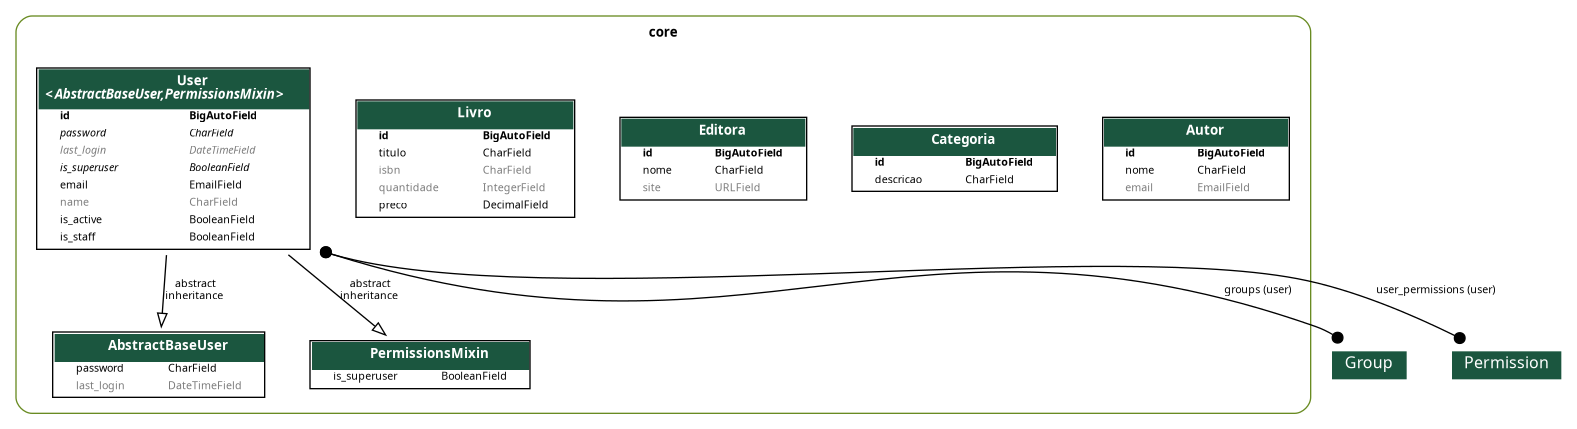
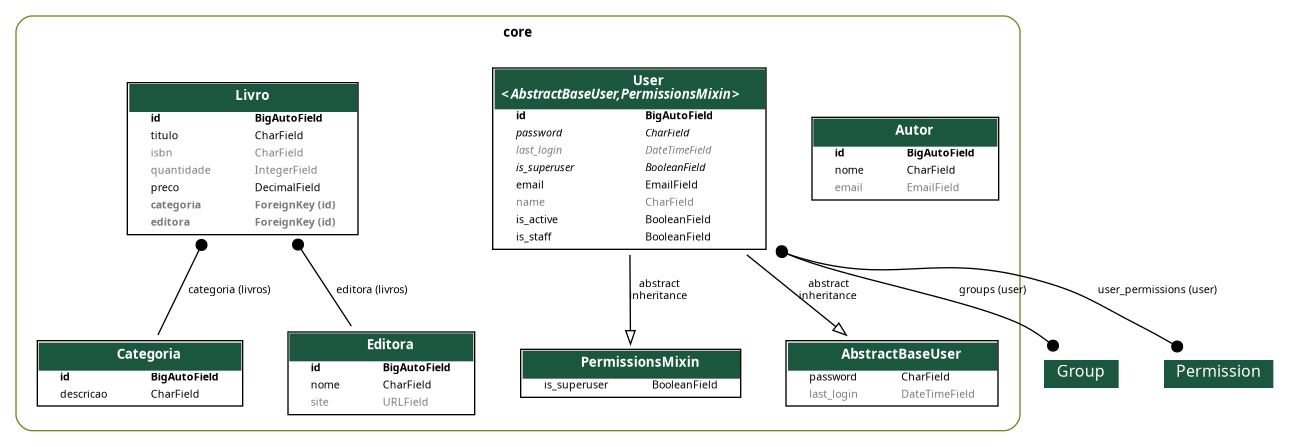
FEAT: Criação das API's

diff --git a/core/models/livro.py b/core/models/livro.py
@@ -1,10 +1,16 @@
 from django.db import models
 
+from .categoria import Categoria
+from .editora import Editora
+
+
 class Livro(models.Model):
     titulo = models.CharField(max_length=255)
     isbn = models.CharField(max_length=32, null=True, blank=True)
     quantidade = models.IntegerField(default=0, blank=True, null=True)
     preco = models.DecimalField(max_digits=7, decimal_places=2, default=0)
+    categoria = models.ForeignKey(Categoria, on_delete=models.PROTECT, related_name='livros', null=True, blank=True)
+    editora = models.ForeignKey(Editora, on_delete=models.PROTECT, related_name='livros', blank=True, null=True)
 
     def __str__(self):
-        return f"({self.id}) {self.titulo} (R${self.preco}) - ({self.quantidade})"
+        return f'({self.id}) {self.titulo} - (R${self.preco}) - ({self.quantidade})'

diff --git a/core/migrations/0007_livro_categoria_livro_editora.py b/core/migrations/0007_livro_categoria_livro_editora.py
@@ -1,0 +1,24 @@
+# Generated by Django 5.2.12 on 2026-03-17 18:38
+
+import django.db.models.deletion
+from django.db import migrations, models
+
+
+class Migration(migrations.Migration):
+
+    dependencies = [
+        ('core', '0006_autor_categoria_editora_livro'),
+    ]
+
+    operations = [
+        migrations.AddField(
+            model_name='livro',
+            name='categoria',
+            field=models.ForeignKey(blank=True, null=True, on_delete=django.db.models.deletion.PROTECT, related_name='livros', to='core.categoria'),
+        ),
+        migrations.AddField(
+            model_name='livro',
+            name='editora',
+            field=models.ForeignKey(blank=True, null=True, on_delete=django.db.models.deletion.PROTECT, related_name='livros', to='core.editora'),
+        ),
+    ]

diff --git a/app/urls.py b/app/urls.py
@@ -12,10 +12,14 @@ from rest_framework_simplejwt.views import (
     TokenVerifyView,
 )
 
-from core.views import UserRegistrationView, UserViewSet
+from core.views import AutorViewSets, CategoriaViewSet, EditoraViewSet, LivroViewSets, UserRegistrationView, UserViewSet
 
 router = DefaultRouter()
 
+router.register(r'autores', AutorViewSets, basename='autores')
+router.register(r'categorias', CategoriaViewSet, basename='categorias')
+router.register(r'editoras', EditoraViewSet, basename='editoras')
+router.register(r'livros', LivroViewSets, basename='livros')
 router.register(r'usuarios', UserViewSet, basename='usuarios')
 
 urlpatterns = [

diff --git a/core/views/categoria.py b/core/views/categoria.py
@@ -1,0 +1,9 @@
+from rest_framework.viewsets import ModelViewSet
+
+from core.models import Categoria
+from core.serializers import CategoriaSerializer
+
+
+class CategoriaViewSet(ModelViewSet):
+    queryset = Categoria.objects.all()
+    serializer_class = CategoriaSerializer

diff --git a/core/views/editora.py b/core/views/editora.py
@@ -1,0 +1,9 @@
+from rest_framework.viewsets import ModelViewSet
+
+from core.models import Editora
+from core.serializers import EditoraSerializer
+
+
+class EditoraViewSet(ModelViewSet):
+    queryset = Editora.objects.all()
+    serializer_class = EditoraSerializer

diff --git a/core/views/autor.py b/core/views/autor.py
@@ -1,0 +1,9 @@
+from rest_framework.viewsets import ModelViewSet
+
+from core.models import Autor
+from core.serializers import AutorSerializer
+
+
+class AutorViewSets(ModelViewSet):
+    queryset = Autor.objects.all()
+    serializer_class = AutorSerializer

diff --git a/core/views/livro.py b/core/views/livro.py
@@ -1,0 +1,9 @@
+from rest_framework.viewsets import ModelViewSet
+
+from core.models import Livro
+from core.serializers import LivroSerializer
+
+
+class LivroViewSets(ModelViewSet):
+    queryset = Livro.objects.all()
+    serializer_class = LivroSerializer

diff --git a/core/admin.py b/core/admin.py
@@ -51,4 +51,8 @@ class UserAdmin(BaseUserAdmin):
     )
 
 
+admin.site.register(models.Autor)
+admin.site.register(models.Categoria)
+admin.site.register(models.Editora)
+admin.site.register(models.Livro)
 admin.site.register(models.User, UserAdmin)

diff --git a/core/views/__init__.py b/core/views/__init__.py
@@ -1,1 +1,5 @@
+from .autor import AutorViewSets
+from .categoria import CategoriaViewSet
+from .editora import EditoraViewSet
+from .livro import LivroViewSets
 from .user import UserRegistrationView, UserViewSet
